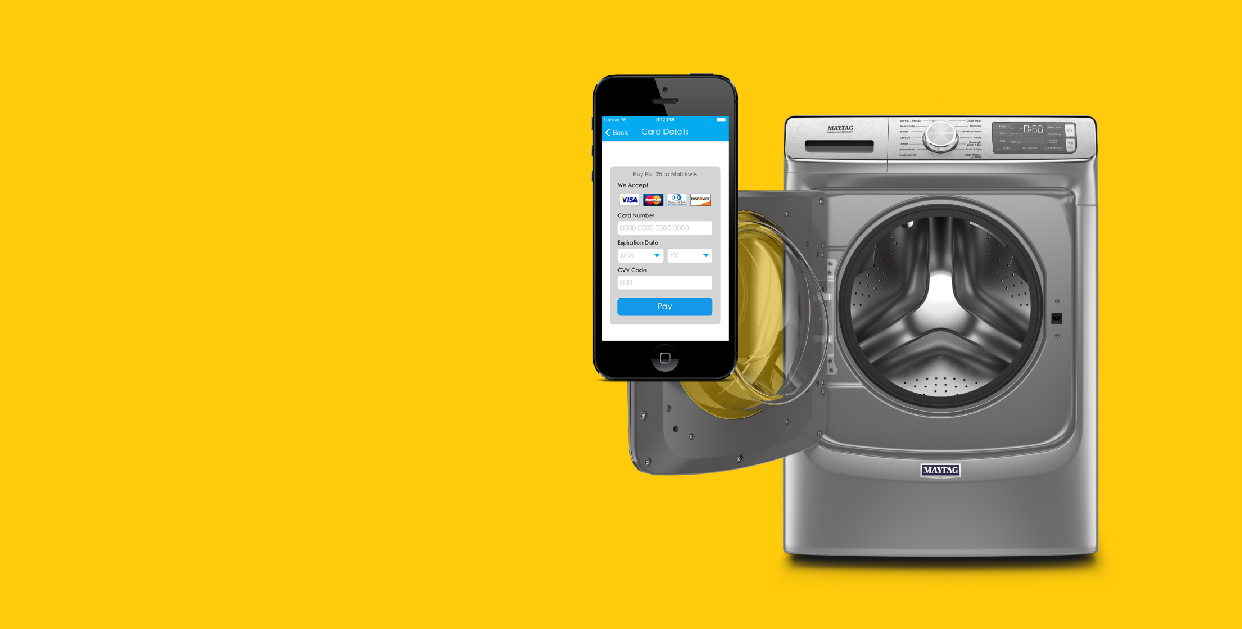
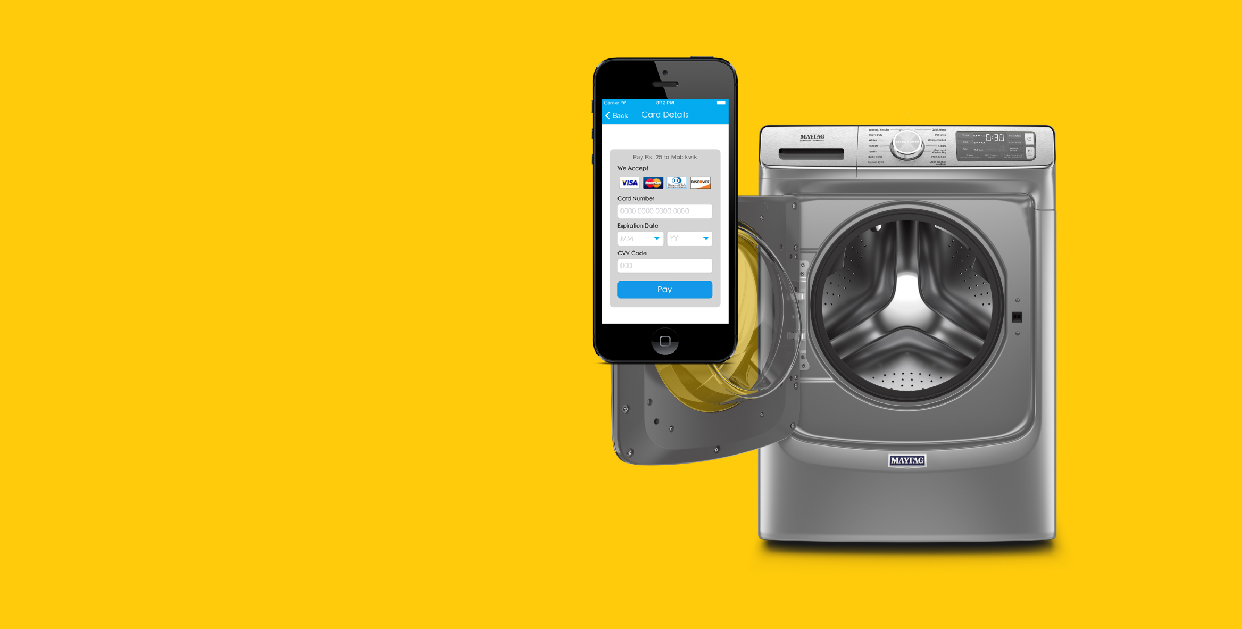
carusel

Changed region(s): [[0.4589, 0.0906, 0.8873, 0.9364]]

diff --git a/HW_Class8_MidTerm/index.html b/HW_Class8_MidTerm/index.html
@@ -12,7 +12,7 @@
 
   <!-- My CSS -->
   <link rel="stylesheet" href="main.css">
-  
+
 
   <title>HW8!</title>
 </head>
@@ -61,8 +61,8 @@
 
   <main role="main" class="">
 
-    <!-- CARUSEL mobile -->
-    <div class="bd-example d-sm-none">
+    <!-- CARUSEL -->
+    <div class="bd-example">
       <div id="carouselExampleCaptions" class="carousel slide" data-ride="carousel">
         <ol class="carousel-indicators">
           <li data-target="#carouselExampleCaptions" data-slide-to="0" class="active"></li>
@@ -71,28 +71,42 @@
         </ol>
         <div class="carousel-inner">
           <div class="carousel-item active">
-            <img src="img/CARUSEL1_1.jpg" class="d-block w-100" alt="images">
+            <img src="img/CARUSEL1_1.jpg" class="d-sm-none d-block w-100" alt="images">
+            <img src="img/CARUSEL2_1.jpg" class="d-none d-sm-block w-100 mt-5" alt="...">
             <div class="carousel-caption text-left">
-              <h1 class="text-uppercase line-hight-h1 text-light">No more searching for Quarters</h1>
-              <p class="lead">
+              <h1 class="text-uppercase line-hight-carusel-xsm text-light d-sm-none d-block">No more <br>searching<br>
+                for</br> Quarters</h1>
+              <h2 class="text-uppercase line-hight-carusel-sm text-light d-none d-sm-block d-md-none pb-3">No more <br> searching <br>for</br>
+                Quarters</h2>
+                <h1 class="text-uppercase line-hight-carusel-xsm text-light d-none d-md-block d-lg-none pb-3">No more <br>searching<br>
+                  for</br> Quarters</h1>
+              <p class="lead d-sm-none d-block d-md-block d-lg-none">
                 <a class="btn btn-lg btn btn-outline-light" href="#" role="button">Learn more</a>
+              </p>
+              <p class="lead d-none d-sm-block d-md-none">
+                <a class="btn btn-sm btn btn-outline-light" href="#" role="button">Learn more</a>
               </p>
             </div>
           </div>
           <div class="carousel-item">
-            <img src="img/CARUSEL1_2.jpg" class="d-block w-100" alt="images">
+            <img src="img/CARUSEL1_2.jpg" class="d-sm-none d-block w-100" alt="images">
+            <img src="img/CARUSEL2_1.jpg" class="d-none d-sm-block w-100 mt-5" alt="...">
             <div class="carousel-caption text-left">
-              <h1 class="text-uppercase line-hight-h1 text-dark">Pick up <br> and </br> delivery service</h1>
-              <p class="lead">
+              <h1 class="text-uppercase line-hight-carusel-xsm text-dark d-sm-none d-block">Pick up <br> and </br>
+                delivery service</h1>
+              <p class="lead d-sm-none d-block">
                 <a class="btn btn-lg btn btn-outline-dark" href="#" role="button">Learn more</a>
               </p>
             </div>
           </div>
           <div class="carousel-item">
-            <img src="img/CARUSEL1_3.jpg" class="d-block w-100" alt="images">
+            <img src="img/CARUSEL1_3.jpg" class="d-sm-none d-block w-100" alt="images">
+            <img src="img/CARUSEL2_1.jpg" class="d-none d-sm-block w-100 mt-5" alt="...">
             <div class="carousel-caption text-left">
-              <h1 class="text-uppercase line-hight-h1 ">any <br> garment</br> for one price</h1>
-              <p class="lead">
+              <h1 class="text-uppercase line-hight-carusel-xsm d-sm-none d-block">any <br> garment<br> for one
+                </br>price</h1>
+
+              <p class="lead d-sm-none d-block">
                 <a class="btn btn-lg btn btn-outline-light btnRed" href="#" role="button">Learn more</a>
               </p>
             </div>
@@ -104,54 +118,9 @@
         </a>
         <a class="carousel-control-next" href="#carouselExampleCaptions" role="button" data-slide="next">
           <span class="carousel-control-next-icon" aria-hidden="true"></span>
-          <span class="sr-only">Next</span>       
+          <span class="sr-only">Next</span>
         </a>
       </div>
-    </div>
-
-    <!-- CARUSEL -->
-    <div class="bd-example d-none d-sm-block mt-5">
-      <div id="carouselExampleCaptions" class="carousel slide" data-ride="carousel">
-        <ol class="carousel-indicators">
-          <li data-target="#carouselExampleCaptions" data-slide-to="0" class="active"></li>
-          <li data-target="#carouselExampleCaptions" data-slide-to="1"></li>
-          <li data-target="#carouselExampleCaptions" data-slide-to="2"></li>
-        </ol>
-        <div class="carousel-inner">
-          <div class="carousel-item active">
-            <img src="img/CARUSEL2_1.jpg" class="d-block w-100" alt="...">
-            <div class="carousel-caption text-left">
-              <h3 class="text-uppercase line-hight-h1 text-light">No more <br> searching <br>for</br> Quarters</h3>
-              <p class="lead">
-                <a class="btn btn-sm btn btn-outline-light" href="#" role="button">Learn more</a>
-              </p>
-            </div>
-          </div>
-          <div class="carousel-item">
-            <img src="img/CARUSEL2_1.jpg" class="d-block w-100" alt="...">
-            <div class="carousel-caption d-none d-md-block">
-              <h5>Second slide label</h5>
-              <p>Lorem ipsum dolor sit amet, consectetur adipiscing elit.</p>
-            </div>
-          </div>
-          <div class="carousel-item">
-            <img src="img/CARUSEL2_1.jpg" class="d-block w-100" alt="...">
-            <div class="carousel-caption d-none d-md-block">
-              <h5>Third slide label</h5>
-              <p>Praesent commodo cursus magna, vel scelerisque nisl consectetur.</p>
-            </div>
-          </div>
-        </div>
-        <a class="carousel-control-prev" href="#carouselExampleIndicators" role="button" data-slide="prev">
-          <span class="carousel-control-prev-icon" aria-hidden="true"></span>
-          <span class="sr-only">Previous</span>
-        </a>
-        <a class="carousel-control-next" href="#carouselExampleIndicators" role="button" data-slide="next">
-          <span class="carousel-control-next-icon" aria-hidden="true"></span>
-          <span class="sr-only">Next</span>       
-        </a>
-      </div>
-      
     </div>
 
     <!-- CARD -->

diff --git a/HW_Class8_MidTerm/main.css b/HW_Class8_MidTerm/main.css
@@ -1,19 +1,28 @@
-.line-hight-carusel-mob {
+.line-hight-carusel-xsm {
   line-height: 50px;
 }
 
-.line-hight-carusel-scr {
-  
-  
+.line-hight-carusel-sm {
+  line-height: 40px; 
+}
+
+.carousel-caption {
+  padding-bottom: ;
 }
 
 
 .navbar {
   background-color: #ffcb0b;
-  
 }
 
 h1 {
+  color: #8d0000;
+  font-family: 'Trebuchet MS', 'Lucida Sans Unicode', 'Lucida Grande', 'Lucida Sans', Arial, sans-serif;
+  text-shadow: 0.5px 0.5px #7e7e7e;
+  
+}
+
+h2 {
   color: #8d0000;
   font-family: 'Trebuchet MS', 'Lucida Sans Unicode', 'Lucida Grande', 'Lucida Sans', Arial, sans-serif;
   text-shadow: 0.5px 0.5px #7e7e7e;

diff --git a/HW_Class8_MidTerm/main.js b/HW_Class8_MidTerm/main.js
@@ -2,13 +2,5 @@
 
 
 
-$('.carousel-control-prev').click(function(e){
-  e.stopPropagation();
-  var goTo = $(this).data('slide');
-  if(goTo=="prev") {
-      $('#carousel-id').carousel('prev'); 
-  } else {
-      $('#carousel-id').carousel('next'); 
-  }
-});
+
 
